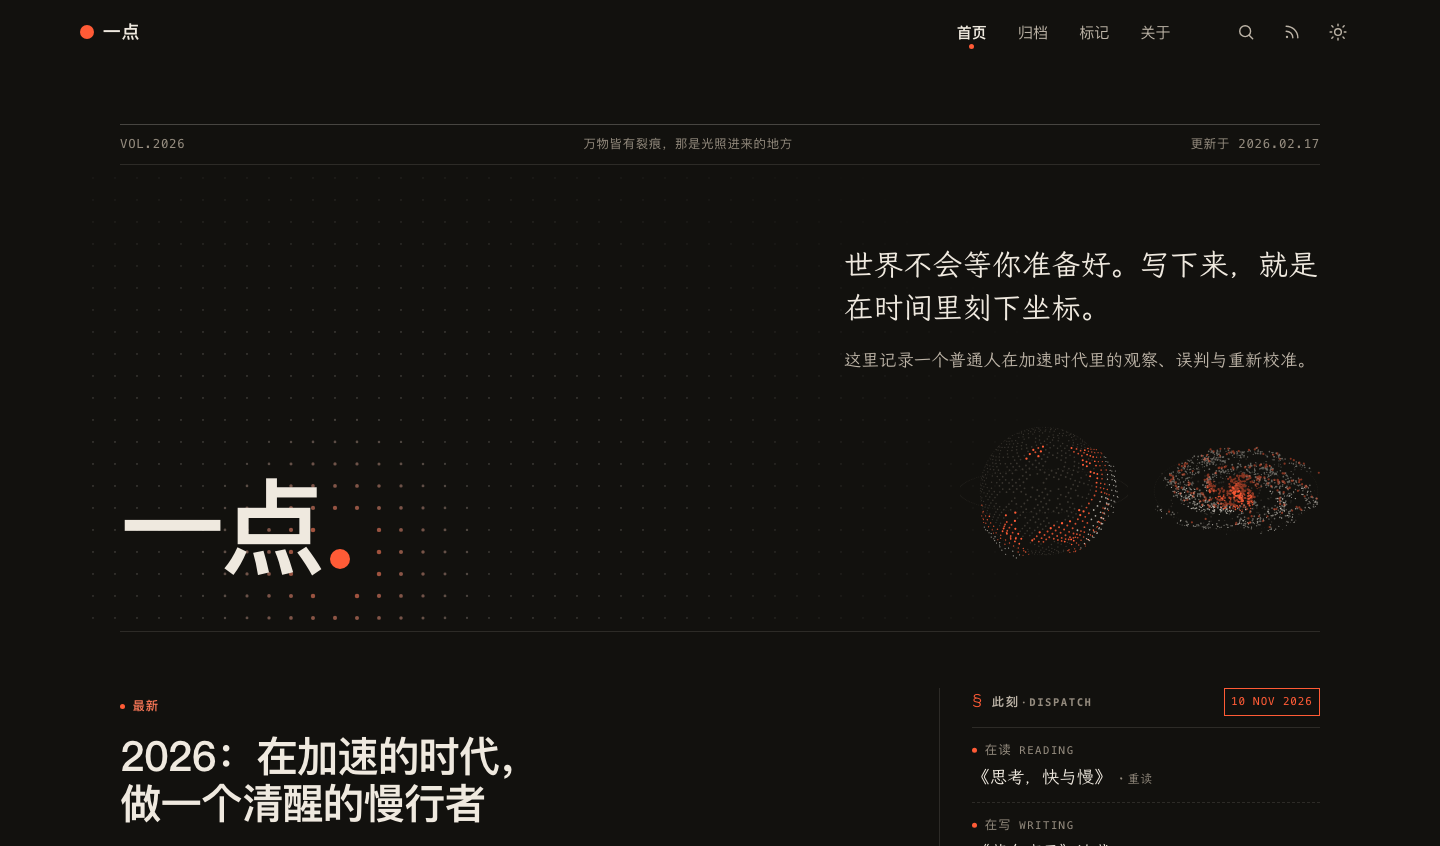
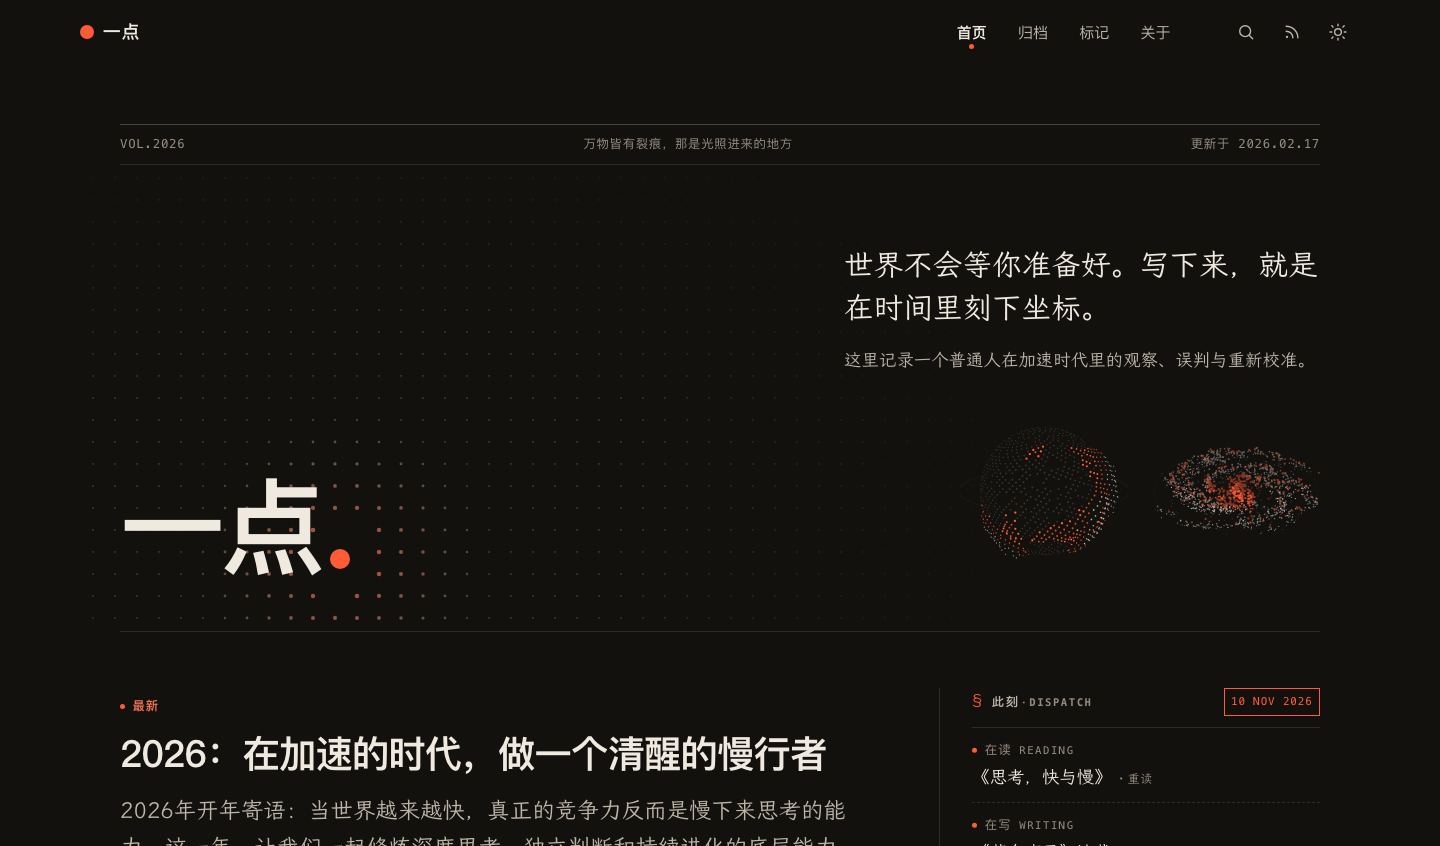
style(title): 头条标题一行显示、阅读页扉页去碎线放大
- 首页 .lead-title: text-wrap balance → pretty（balance 会提前配平
  折行），字号改 calc(var(--step-3) * .9)；实测 1100/1280/1440
  三档均 1 行，不再出现「右侧空着却换行」或第二行孤字
- 阅读页 .rd-title: 字号上限 3.1→3.4rem、去掉 15em 行宽锁
  （max-width:100%）、balance→pretty，标题一行完整展开
- .rd-ledger 删格子竖线改 column-gap；.rd-rule 2px 纯墨线
  改 1px --line-2，朱砂点与入场动画保留
- 验证：1440 明暗 + 390 窄屏、控制台 0 报错；
  README 截图重拍与 REFACTOR 第三十五节同步

Changed region(s): [[0.0625, 0.8605, 0.5938, 1.0]]

diff --git a/assets/css/v10/_reading.scss b/assets/css/v10/_reading.scss
@@ -78,16 +78,18 @@ html[data-width] article.post-article.rd {
 }
 
 .rd-title {
-  max-width: 15em;
+  /* V10.18：放大一档，标题在扉页里重新拿回视觉重心。
+     不再用 15em/18em 锁宽度——扉页本身有 1200px，锁了反而把
+     放大后的标题折成「长行 + 两个孤字」；balance 也换 pretty。 */
+  max-width: 100%;
   margin: 1.1rem auto 0;
   font-family: var(--font-display);
-  /* V10.8：原本最大 4.5rem，收一档，不跟刊头「一点」抢视觉 */
-  font-size: #{"clamp(1.9rem, 1.4rem + 2.2vw, 3.1rem)"};
+  font-size: #{"clamp(2rem, 1.5rem + 2.4vw, 3.4rem)"};
   font-weight: 800;
-  line-height: 1.12;
+  line-height: 1.16;
   letter-spacing: -.03em;
   color: var(--ink);
-  text-wrap: balance;
+  text-wrap: pretty;
 
   /* 标题从下方「浮出纸面」：裁切 + 上移 */
   > span {
@@ -119,16 +121,17 @@ html[data-width] article.post-article.rd {
   border-bottom: 1px solid var(--line);
   animation: rd-fade 800ms var(--ease-out) 380ms both;
 
+  /* V10.18：去掉格子竖线，靠留白分组——扉页里不再多出四五条细线 */
+  column-gap: .35rem;
+
   > div {
     display: flex;
     flex-direction: column;
     justify-content: center;
     gap: .2rem;
     margin: 0;
-    padding: .8rem 1.35rem;
+    padding: .8rem 1.1rem;
   }
-
-  > div + div { border-left: 1px solid var(--line); }
 
   dt {
     font-family: var(--font-ui);
@@ -188,8 +191,9 @@ html[data-width] article.post-article.rd {
   margin: 2.5rem auto 0;
 
   i {
-    height: 2px;
-    background: var(--ink);
+    /* V10.18：2px 纯墨线收成全站统一的 1px 半透明线，朱砂点保留 */
+    height: 1px;
+    background: var(--line-2);
     transform: scaleX(0);
     animation: rd-line 700ms var(--ease-out) 520ms forwards;
   }

diff --git a/assets/css/v10/_home.scss b/assets/css/v10/_home.scss
@@ -159,12 +159,16 @@ body { margin: 0; }
 .lead-title {
   margin: .9rem 0 0;
   font-family: var(--font-display);
-  font-size: var(--step-3);
+  /* V10.18：按 --step-3 收 10%，让宽屏下整行放得下（原 41.6px 会把
+     20 字标题挤成两行）；balance 也换 pretty，首行用满栏宽 */
+  font-size: calc(var(--step-3) * .9);
   font-weight: 700;
   line-height: 1.12;
   letter-spacing: var(--tracking-display);
   color: var(--ink);
-  text-wrap: balance;
+  /* balance 会把断点提前配平两行，第一行明明还有空间就换行；
+     pretty 只避免孤字，让首行尽量用满栏宽 */
+  text-wrap: pretty;
   transition: color var(--t-2) var(--ease-ui);
 }
 

diff --git a/REFACTOR.md b/REFACTOR.md
@@ -1201,3 +1201,40 @@ V10.5 起有三处通过 `components/dot-shape.html` 输出 5×5 点阵形状（
 - 右栏是 `5fr`（1440 视口约 470px），两颗 168px + gap 约 360px 放得下；刊头高度从约 350px 回落到 168px，首屏更紧凑，「最新」与状态公报不受影响。
 
 验证：1440 明暗 + 390px 窄屏截图确认两颗水平并排、潮汐在左星海在右、无重叠溢出；三块 canvas 仍各自在动、点击回响与 reduced-motion 静止不变；首页 / 关于 / 归档控制台 0 报错，CLS 0.0001。README 首页明暗截图重拍，设计章节「刊头右侧」同步。
+
+---
+
+## 三十五、V10.18：头条标题不换行、阅读页扉页收线放大（2026-11-10）
+
+### 35.1 两条反馈
+
+1. 首页「最新」标题换行有问题，右侧明明还有位置。
+2. 阅读页标题部分的设计也需要优化。
+
+### 35.2 首页头条：balance 提前折行 + 字号差 7.5%
+
+`.lead-title` 原本 `text-wrap: balance`，它会主动把断点提前来「配平」两行，于是第一行「2026：在加速的时代，」没填满就换行，右栏看着空一大片。先换 `pretty`，第一行填满后第二行却只剩「行者」两个孤字，反而更差——说明问题不只是折行策略，是**宽度根本差一点**。
+
+CDP 实测（1440 视口）：容器 762px、字号 41.6px、标题单行文字宽 807px，一行放下需要 38.5px。把字号改成 `calc(var(--step-3) * .9)`（1440 → 37.4px，仍挂在字号令牌上、不自造数值），配合 `pretty`：
+
+| 视口 | 容器 | 字号 | 文字宽 | 行数 |
+|---|---|---|---|---|
+| 1440 | 762 | 37.4 | 726 | **1** |
+| 1280 | 766 | 36.0 | 698 | **1** |
+| 1100 | 656 | 33.8 | 656 | **1** |
+
+三个宽度都一行显示，字号只收了 10%，头条气势基本不变。
+
+### 35.3 阅读页扉页：去碎线、放大标题
+
+截图从上到下是「眉题短线 → 标题 → 摘要 → 账页格子 → 2px 墨线 + 朱砂点」，问题有三：标题被 `max-width: 15em` 锁住偏小、`balance` 同样提前配平；账页 5 格的 `border-left` 制造四五条竖线；`.rd-rule` 的 `2px solid var(--ink)` 是上一轮刚全站废弃的纯墨粗线，还与眉题的「短线 + 字 + 短线」语言重复。
+
+- `.rd-title`：字号上限 `3.1rem → 3.4rem`、`line-height 1.12 → 1.16`、`balance → pretty`。**先把 `15em` 放宽到 `18em` 时反而更糟**——放大后的标题折成「长行 + 故事」两个孤字；索性去掉行宽限制（`max-width: 100%`，扉页本身有 1200px），标题才一行完整展开。
+- `.rd-ledger`：删掉 `> div + div` 的竖线，改 `column-gap: .35rem` 靠留白分组；padding 略收。
+- `.rd-rule i`：`2px var(--ink)` → `1px var(--line-2)`，朱砂点与入场动画保留，只把线收进全站统一的细柔线。
+
+### 35.4 验证
+
+- 干净生产构建 203 页；首页头条标题 1100 / 1280 / 1440 三档均 1 行，阅读页标题在 1440 明暗两色均 1 行、390px 窄屏折成语义自然的两行且无孤字、不溢出。
+- 阅读页账页去掉竖线后仍上下各一条细线框住，Aa 按钮位置正常；扉页底部朱砂点保留、线不再刺眼。
+- 首页 / 阅读页 / 关于页控制台 0 报错。README 首页明暗截图重拍，设计章节「阅读页」与节数（34 → 35）同步。

diff --git a/README.md b/README.md
@@ -80,10 +80,10 @@
 - **按主题读**：三栏一行，每栏一个主题三篇。先挑没被头条与「最近发表」用掉的文章，不够再回补，所以三栏始终填满。
 - **此刻**：头条右侧栏里的「状态公报」——细线分栏、等宽标签、朱砂点、日期框、底部排印说明，四行「在读 / 在写 / 在发 / 在码」，字号比头条低一档，不抢刊头。后两行从站点内容自动算出（篇数、字数、最近更新、近 12 个月发文柱图），不会写完就过期。见[维护此刻状态](#维护此刻状态)。
 - **分隔线**：全站统一 1px 半透明 `--line-2`（明暗各 24% 墨 / 纸色）。原 `--line-ink` 纯墨纯白的 2px 强线与 `3px double` 双线已废弃；只有引用块、朱砂强调这类竖向装饰保留粗线。
-- **阅读页**：「一章书页」——宽版排版（外壳与首页同宽 1200px，正文最多 980px）、居中扉页、首字下沉、图片外扩出血；右页边点线目录的章节名常显（≥1100px），当前章朱砂加粗，窄屏改底部胶囊。选中文字浮出「复制摘句 / 分享」，文末「全文完」并给出实际用时。
+- **阅读页**：「一章书页」——宽版排版（外壳与首页同宽 1200px，正文最多 980px）、居中扉页（标题放大一档且不再锁行宽，账页去格子竖线、底部墨线收成 1px 细线）、首字下沉、图片外扩出血；右页边点线目录的章节名常显（≥1100px），当前章朱砂加粗，窄屏改底部胶囊。选中文字浮出「复制摘句 / 分享」，文末「全文完」并给出实际用时。
 - **无障碍**：所有动效尊重 `prefers-reduced-motion`；正文级对比度按 WCAG AA 实算；读程 / 评论 / 目录按钮的展开状态同步 `aria-expanded`。
 
-重构过程、每一版的取舍与前后对比都记在 [REFACTOR.md](REFACTOR.md)（共 34 节，从诊断到 V10.17 夜航星海）。
+重构过程、每一版的取舍与前后对比都记在 [REFACTOR.md](REFACTOR.md)（共 35 节，从诊断到 V10.18 标题排版收口）。
 
 ## 目录结构
 
@@ -99,7 +99,7 @@
 ├── layouts/            # baseof · home · highlights · page · section · taxonomy · term + _partials/（含 components/dot-shape、tide）· _shortcodes/ · _markup/
 ├── scripts/            # dev-server · build-prod · build-font-subset · optimize-images · highlights
 ├── static/             # img/（含 og:image header.png、dot-motion-preview.png）· fonts/ · pagefind/ · css/ · js/ · _headers · favicon.svg / .ico / apple-touch-icon.png
-├── REFACTOR.md         # 设计重构记录（34 节）
+├── REFACTOR.md         # 设计重构记录（35 节）
 └── MARKDOWN_GUIDE.md   # 写作语法与短代码速查
 ```
 
